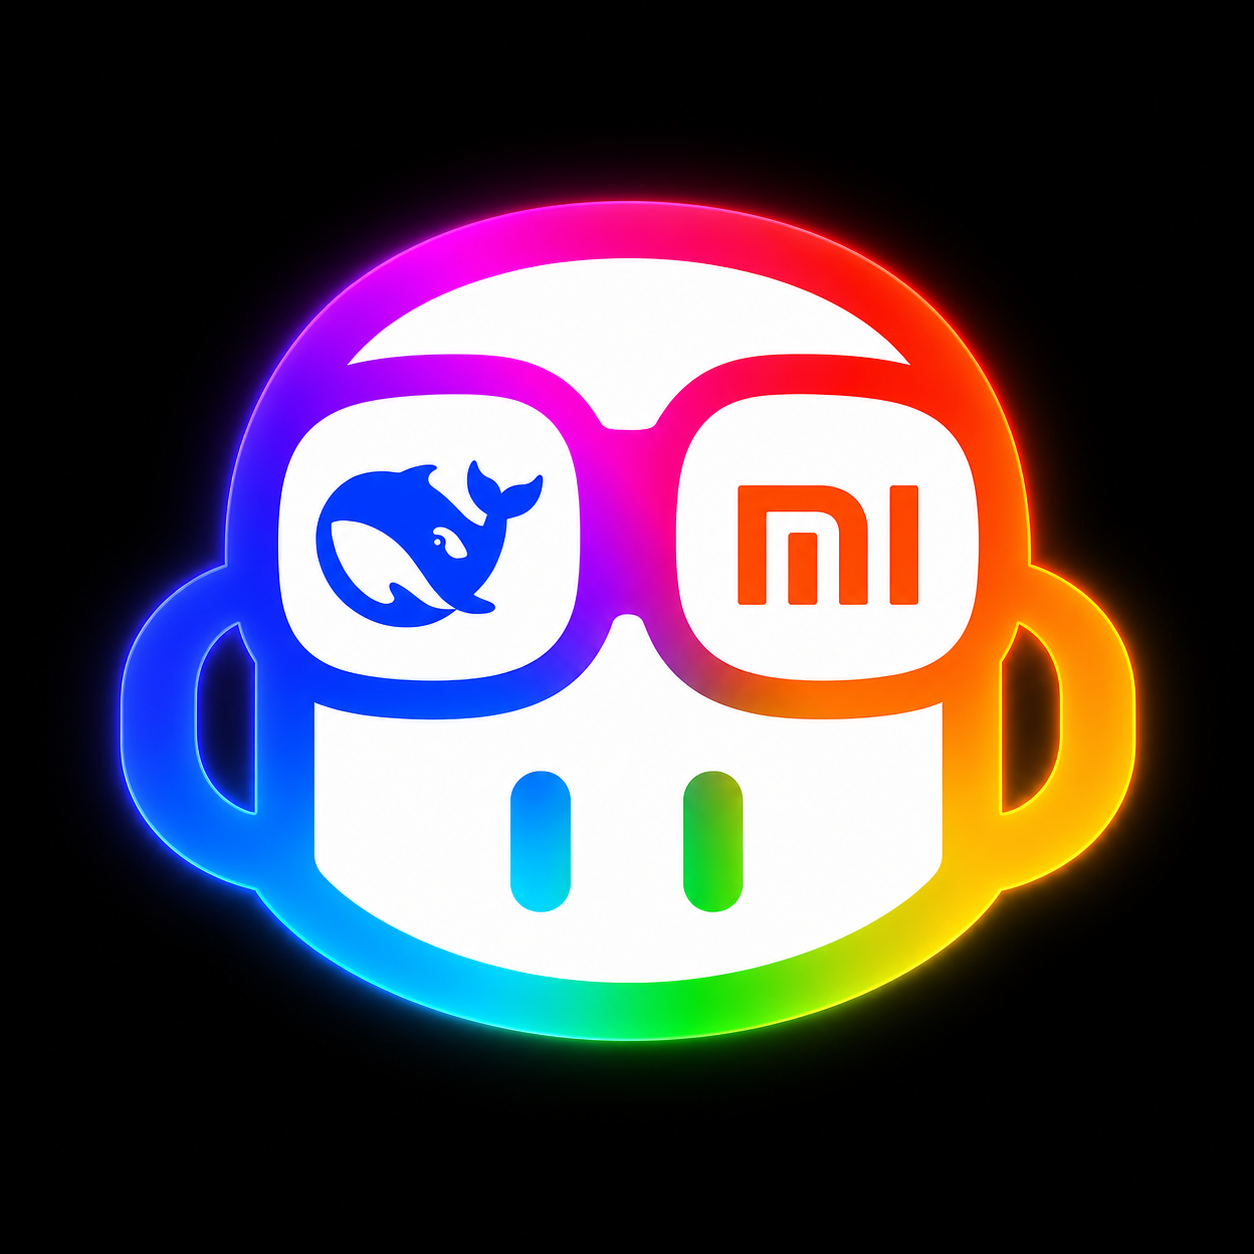
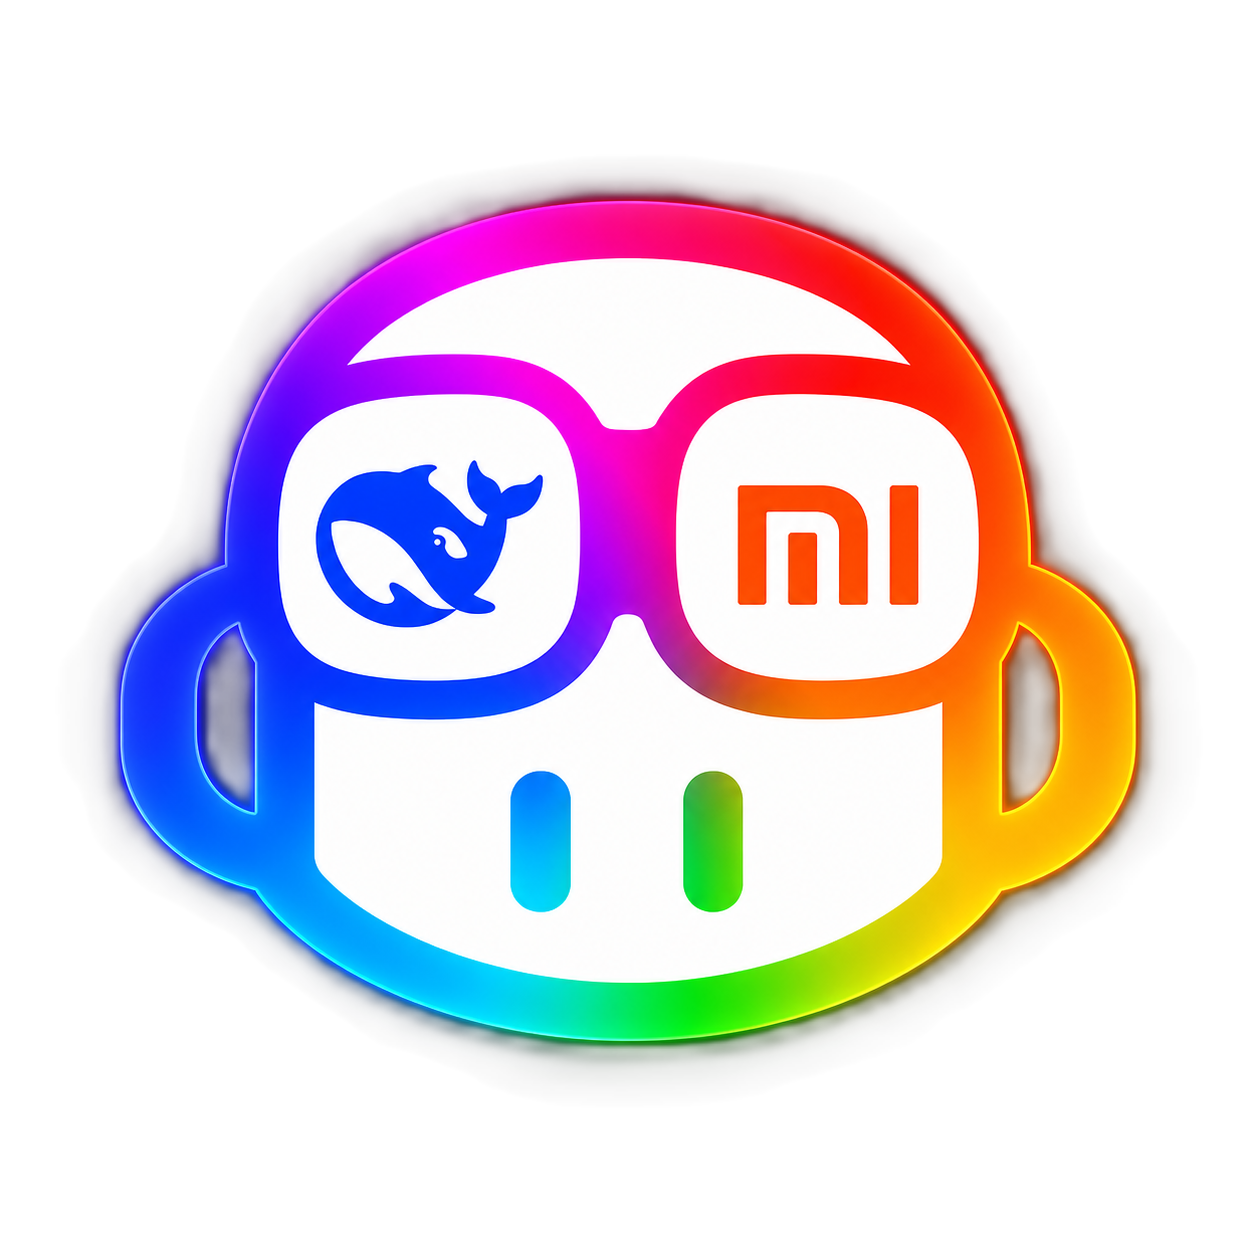
chore: release 1.1.2

diff --git a/CHANGELOG.md b/CHANGELOG.md
@@ -2,6 +2,12 @@
 
 ## [Unreleased]
 
+## [1.1.2](https://github.com/ClockZinc/mimo-for-copilot/compare/v1.1.1...v1.1.2) (2026-05-10)
+
+### Documentation
+
+* refresh the extension icon and republish the packaged VSIX
+
 ## [1.1.1](https://github.com/ClockZinc/mimo-for-copilot/compare/v1.1.0...v1.1.1) (2026-05-10)
 
 ### Features
